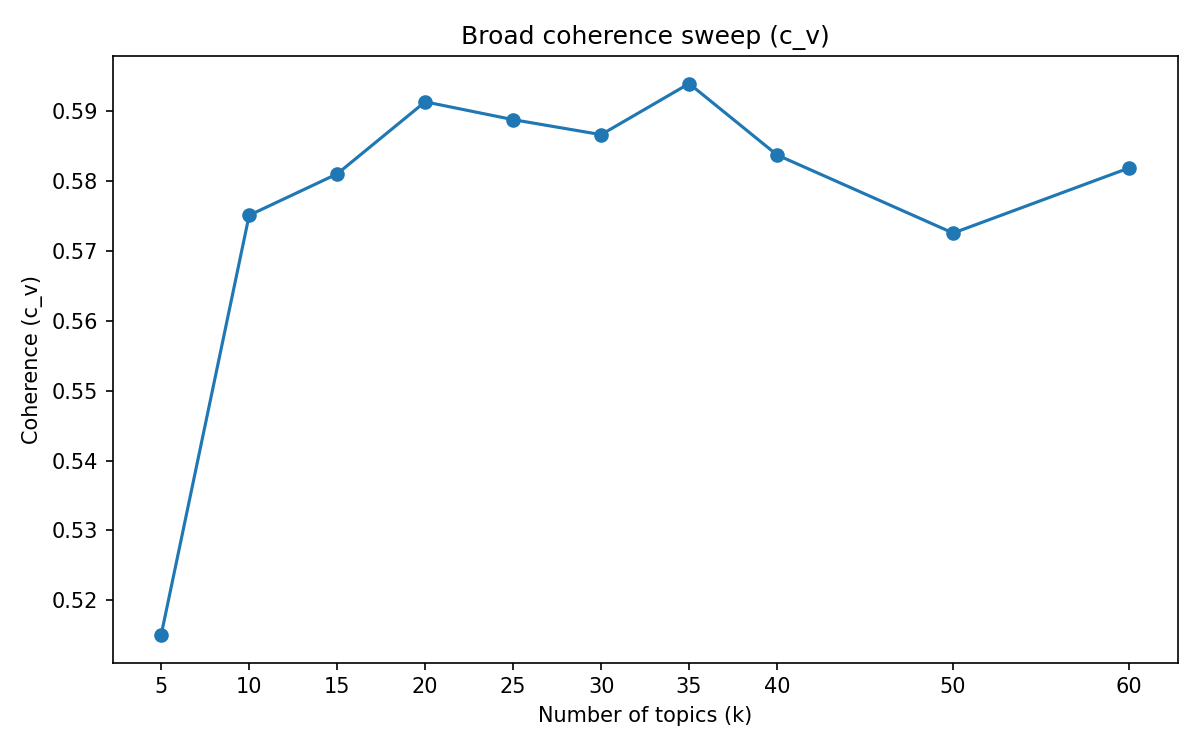
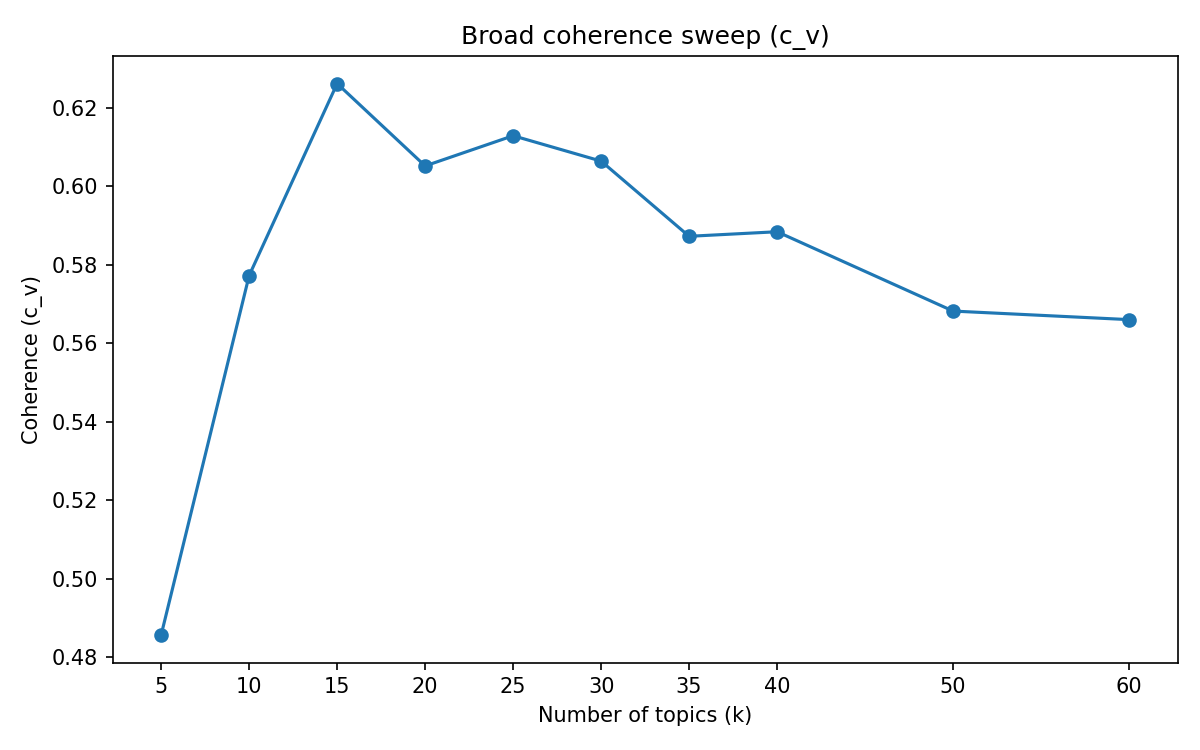
Update planning docs and coherence sweep results after Phase 4 stopword fix

diff --git a/deferred_items.md b/deferred_items.md
@@ -106,12 +106,12 @@ Maintained by Deniz. Update or tick off as items are resolved.
 - **Revisit:** during Stage 2 write-up.
 
 ### 11. Borderline blacklist terms in Phase 6B
-- **Status:** no separate experiment planned.
+- **Status:** ✓ RESOLVED. At k=25: `originator`, `docid`, `decl`, `cfr` confirmed absent from all topic top-words — blacklisting correct. Topic 22 is the metadata-residue topic from `ref`, `cite`, `per` removal. Decision made in item #29: accept and report.
 - **Why noted:** ChatGPT flagged `originator`, `docid`, `decl`, `cfr` as
   borderline. If they were wrongly blacklisted, related
   document-routing themes may look weird in the full-pipeline topics.
   Check during normal topic inspection in Stage 2.
-- **Revisit:** during Stage 2 topic inspection (`04_inspect_topics.py`).
+- **Revisit:** resolved.
 
 ### 12. `log_perplexity` interpretation
 - **Status:** computed by `02_coherence_sweep_broad.py` but reported
@@ -212,9 +212,63 @@ suggest things that contradict already-committed choices.
 - **Revisit:** Stage 6. Merges with item #6.
 
 ### 24. Fine-sweep results and k-selection candidates
-- **Status:** fine sweep complete. Top 3: k=23 (0.6115), k=21 (0.6111), k=24 (0.6110).
+- **Status:** ✓ RESOLVED. After Phase 4 stopword fix, fine sweep rerun produced new top 3: k=29 (0.6188), k=25 (0.6128), k=28 (0.6099). Broad sweep showed k=15 (0.6261) as highest overall. Script 04 inspection of k=15, k=25, k=29 followed by independent ChatGPT consultation: k=15 rejected (underfits — merges tax forms with assassination discussion), k=29 rejected (overfits — fragments Black Panthers and metadata topics), k=25 selected as final model. Coherence difference between k=25 and k=29 is only 0.006; k=25 has cleaner topic separation.
 - **Why noted:** these three are within 0.0005 c_v — effectively tied. Script 04 will inspect k=23, k=21, and k=33 (secondary peak). Final k chosen by interpretability rubric adjudication.
-- **Revisit:** after script 04 completes.
+- **Revisit:** resolved. Final k = 25.
+
+### 25. Script 04: check topic top-20 words for OCR noise
+- **Status:** ✓ RESOLVED. After Phase 4 stopword fix and noise checker improvement (6-criterion allowlist with known_entities.yml), k=25 inspection shows 1.60% flagged noise rate (8 words out of 500), of which real OCR noise is only 2 tokens (`lifeat`, `gerende`). Pipeline confirmed clean.
+- **Why noted:** the pipeline's functional cleanliness is only confirmed if no OCR garbage appears in topic top-words. If garbled tokens show up, add a spell-correction or dictionary-filtering step between Phase 3 and Phase 4, then rerun everything.
+- **Revisit:** resolved by k=23 inspection; no further action needed.
+
+### 26. dict_hit_rate drop across pipeline (0.776 → 0.742)
+- **Status:** observed in cleanliness_report.py output. Explained by stopword removal reducing the proportion of common English words.
+- **Why noted:** an examiner could ask why dictionary hit rate went down after cleaning. The answer (stopwords are real English words; domain terms like oswald, cia, kgb are not in /usr/share/dict/words) should appear in the methodology when the evaluation results are written up.
+- **Revisit:** Stage 6 writeup, alongside the Zimmermann et al. citation.
+
+### 27. Add `n't` to ARCHIVE_STOPWORDS in Phase 4
+- **Status:** ✓ RESOLVED. Added `n't`, `dr.`, `jr.`, `mrs.`, `sr.` to
+  ARCHIVE_STOPWORDS. Also added a regex filter rejecting single-letter-
+  period tokens (^[a-z]\.$) to catch name initials (j., w., p., etc.).
+  Pipeline rerun from Phase 4 completed. New corpus: 4,010 docs, 54,025
+  vocab. New coherence winner shifted from k=23 to k=25.
+- **Why noted:** not OCR noise, but a tokenisation artefact with zero topical value. Adding it to ARCHIVE_STOPWORDS would require rerunning Phase 4 onward + rebuilding dictionary + retraining all LDA models.
+- **Revisit:** resolved; follow-on numbers work tracked in item #30.
+
+### 28. Spanish-language topic (Topic 2 at k=23)
+- **Status:** confirmed at k=25 as Topic 4. Entirely Spanish function words. Stable across all candidate k values tested (15, 25, 29). Will be reported in Results as a corpus feature.
+- **Why noted:** the non-English Phase 5 filter (5% non-ASCII) misses Spanish written in ASCII. This topic is a real feature of the corpus, not a pipeline failure. Report it honestly in Results as evidence of the filter's acknowledged limitation.
+- **Revisit:** Stage 6 writeup only.
+
+### 29. Topic 13 cable-routing metadata residue
+- **Status:** confirmed at k=25 as Topic 22 (info, message, ref, city, unit, reproduction, per, issuing, letter, press). Metadata-residue topic appears at every k tested. Decision: option (b) — keep terms off blacklist, accept one metadata topic, report it. One admin topic out of 25 is expected and defensible.
+- **Why noted:** `ref`, `cite`, `per` were deliberately removed from the Phase 6B blacklist because they carry topical content in some contexts. Topic 13 shows they also carry routing-metadata signal. Two options: (a) re-add them to the blacklist and accept losing some topical uses, or (b) keep them off the blacklist and accept one metadata-residue topic. Option (b) is defensible — one administrative topic out of 23 is expected.
+- **Revisit:** resolved. Report in Results chapter.
+
+### 30. Post-stopword-fix corpus numbers differ from methodology text
+- **Status:** pending. Methodology currently cites 4,049 docs, 54,058
+  vocab, 78,022 retained pages, median retention 55.4%, k=23. After the
+  Phase 4 stopword fix, the correct numbers are: 4,010 docs, 54,025
+  vocab, 78,012 retained pages, median retention 54.4%, k=25.
+- **Why noted:** all numbers in the thesis LaTeX, the evaluation tables,
+  and the coherence sweep reports need updating once experiments settle.
+- **Revisit:** Stage 6 (methodology finalisation), after Stages 3-4
+  complete.
+
+### 31. Noise checker improved with 6-criterion allowlist
+- **Status:** ✓ RESOLVED. Script 04 noise checker updated to use 6-criterion conjunction: dictionary check, Cold War vocabulary, known_entities.yml (66 entries: 25 persons, 15 organizations, 9 places, 17 abbreviations), abbreviation regex, Spanish stopwords (31 words), and high document frequency (>=100). Previous checker over-flagged proper names and abbreviations at ~17%; new checker flags ~1.6%.
+- **Why noted:** the improvement is methodologically significant — it distinguishes real OCR noise from domain vocabulary the dictionary doesn't contain.
+- **Revisit:** resolved.
+
+### 32. Two-pass topic labelling completed for k=25
+- **Status:** ✓ RESOLVED. All 25 topics labelled. Pass 1 (top-words only) and Pass 2 (representative documents) completed. Results recorded in topic_labelling_k25.xlsx. Final tier counts after Pass 2: 6 Core, 11 Adjacent, 6 Admin, 2 Other. Key finding: 17/25 topics (68%) show Cold War relevance. Notable Pass 2 corrections: Topic 19 upgraded Other→Core (CIA assassination-planning testimony hidden behind generic conversational top-words), Topic 0 upgraded Other→Adjacent (Hampton raid forensics), Topic 6 upgraded Adjacent→Core (JMWAVE), Topic 16 downgraded Adjacent→Other (Riha witness interviews), Topic 10 downgraded Other→Admin (FBI routing templates).
+- **Why noted:** the two-pass protocol proved its value — 8 of 25 topics changed tier between Pass 1 and Pass 2.
+- **Revisit:** resolved. Results feed into thesis Chapter 5.
+
+### 33. Script 05 Cold War relevance scores for k=25
+- **Status:** ✓ RESOLVED. Cold War relevance computed using 30-term vocabulary across 5 categories. Results: 1 topic scored as Cold-War-core by the automated heuristic (Topic 24, overall=0.164), 11 as adjacent (overall 0.05–0.15), 13 as low-overall (<0.05). Manual labelling (item #32) substantially reclassified these: 6 Core and 11 Adjacent after human inspection. The gap between automated scores and manual labels confirms the vocabulary is a conservative first-pass indicator, not a classifier.
+- **Why noted:** the discrepancy between automated and manual Cold War classification is itself a finding for the Results chapter.
+- **Revisit:** resolved. Report both automated and manual scores.
 
 ---
 

diff --git a/lda_plan.md b/lda_plan.md
@@ -4,6 +4,18 @@
 
 The main research question asks to what extent thematic patterns in the 2025 JFK declassified files reflect Cold War intelligence concerns, as identified through topic modelling. Subquestion 1 asks which latent themes emerge and how interpretable they are. Subquestion 2 asks to what extent these themes correspond to Cold War concerns. The modelling work must therefore produce: (a) a defensible final topic model, (b) evidence that the preprocessing pipeline meaningfully improved topic quality over a minimal baseline, (c) empirical justification for the 5,000-token chunking threshold, and (d) a transparent, replicable first-pass indicator of Cold War relevance that structures, but does not replace, manual topic interpretation.
 
+### Connection to broader thesis research questions
+
+The LDA track feeds into the joint thesis RQs defined with Furkan Demir:
+- RQ1 (BERTopic vs LDA): LDA results serve as the classical baseline
+  that BERTopic is compared against.
+- RQ2 (preprocessing contribution): Stage 4 baseline comparison answers
+  this directly for the LDA track.
+- RQ3 (thematic structure): topic labels and Cold War relevance scores
+  answer this.
+- RQ4 (retrieval vs structural view): LDA topics are one of the
+  structural views compared against RAG retrieval.
+
 ## Relationship between `pipeline/` and `lda/`
 
 The pipeline is frozen in its current state and produces the canonical 4,049-document corpus that the methodology describes. Modelling experiments live under `lda/` and read frozen pipeline outputs as input. Where sensitivity analyses require rerunning parts of the pipeline under alternate settings (different chunk sizes, different stopword list), those reruns happen inside `lda/scripts/` using isolated output directories; they do not modify files under `pipeline/`. The pipeline is only edited if a sensitivity result demonstrates that a preprocessing choice was wrong, in which case the change is committed separately with an updated methodology. This separation keeps the canonical corpus reproducible and keeps experiments traceable.

diff --git a/lda/reports/coherence_fine_summary.md b/lda/reports/coherence_fine_summary.md
@@ -6,14 +6,14 @@ Range swept: k ∈ [18, 40] at unit resolution.
 
 | Rank | k | c_v | log_perplexity |
 |---|---|---|---|
-| 1 | 23 | 0.6115 | -8.1288 |
-| 2 | 21 | 0.6111 | -8.1518 |
-| 3 | 24 | 0.6110 | -8.1293 |
+| 1 | 29 | 0.6188 | -8.1176 |
+| 2 | 25 | 0.6128 | -8.1467 |
+| 3 | 28 | 0.6099 | -8.1287 |
 
 ## Final-k recommendation
 
-Primary signal: c_v coherence.  Top c_v = 0.6115 at k = 23.  Tie-breaking rule: candidates within 0.02 c_v of the maximum are adjudicated by the interpretability rubric applied in script 04.
+Primary signal: c_v coherence.  Top c_v = 0.6188 at k = 29.  Tie-breaking rule: candidates within 0.02 c_v of the maximum are adjudicated by the interpretability rubric applied in script 04.
 
-Candidates within the 0.02 c_v band: k ∈ {23, 21, 24, 22, 33, 38, 39, 19, 35}.
+Candidates within the 0.02 c_v band: k ∈ {29, 25, 28, 18, 27, 19, 31, 30, 26, 20, 21, 32}.
 
 Inspect in script 04: top-20 words per topic, three representative documents per topic, and distinctiveness between candidates before confirming the final k.

diff --git a/lda/reports/coherence_broad_summary.md b/lda/reports/coherence_broad_summary.md
@@ -4,10 +4,10 @@
 
 | Rank | k | c_v | log_perplexity |
 |---|---|---|---|
-| 1 | 35 | 0.5939 | -8.1115 |
-| 2 | 20 | 0.5913 | -8.1596 |
-| 3 | 25 | 0.5888 | -8.1218 |
+| 1 | 15 | 0.6261 | -8.2025 |
+| 2 | 25 | 0.6128 | -8.1467 |
+| 3 | 30 | 0.6064 | -8.1156 |
 
 ## Recommendation
 
-Fine sweep recommended over k ∈ [15, 40] in steps of 1 or 2.
+Fine sweep recommended over k ∈ [10, 35] in steps of 1 or 2.
